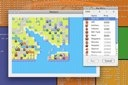
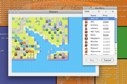
Removed the border around the screenshots

diff --git a/Screenshots.html b/Screenshots.html
@@ -6,7 +6,7 @@
   <head><meta http-equiv="Content-Type" content="text/html; charset=UTF-8" />
     
     <meta name="Generator" content="iWeb 2.0.4" />
-    <meta name="iWeb-Build" content="local-build-20090628" />
+    <meta name="iWeb-Build" content="local-build-20090629" />
     <meta name="viewport" content="width=700" />
     <title>Screenshots</title>
     <link rel="stylesheet" type="text/css" media="screen,print" href="Screenshots_files/Screenshots.css" />
@@ -96,8 +96,8 @@ new NavBar('widget0', 'Scripts/Widgets/Navbar', 'Scripts/Widgets/SharedResources
           
 
 
-          <div style="height: 0px; left: 0px; position: absolute; top: 90px; width: 700px; z-index: 1; " id="id2"></div>
-          <div class="com-apple-iweb-widget-headercontrols" id="widget1" style="height: 27px; left: 0px; position: absolute; top: 90px; width: 700px; z-index: 1; ">
+          <div style="height: 0px; left: 27px; position: absolute; top: 90px; width: 646px; z-index: 1; " id="id2"></div>
+          <div class="com-apple-iweb-widget-headercontrols" id="widget1" style="height: 27px; left: 27px; position: absolute; top: 90px; width: 646px; z-index: 1; ">
             
             <div class="middle">
 
@@ -229,7 +229,7 @@ new NavBar('widget0', 'Scripts/Widgets/Navbar', 'Scripts/Widgets/SharedResources
           <script type="text/javascript"><!--//--><![CDATA[//><!--
 new HeaderControls('widget1', 'Scripts/Widgets/HeaderControls', 'Scripts/Widgets/SharedResources', '.', {"feedURL": "http:\/\/the-kenny.ath.cx\/%7EMoritz\/netwars\/Netwars\/Screenshots_files\/rss.xml", "showAddPhoto": false, "showSlideshow": true, "entriesPerPage": 24, "mediaIndex": false, "gridID": "id2", "canvas controls": {"canvas_download": "Media\/canvas_download_03.png", "canvas_transport-left-D": "Media\/canvas_transport-left-D_03.png", "canvas_thumbs_off-S": "Media\/canvas_thumbs_off-S_03.png", "canvas_transport-right-D": "Media\/canvas_transport-right-D_03.png", "canvas_play": "Media\/canvas_play_03.png", "canvas_transport-left-N": "Media\/canvas_transport-left-N_03.png", "canvas_thumbs_off-N": "Media\/canvas_thumbs_off-N_03.png", "canvas_back": "Media\/canvas_back_03.png", "canvas_subscribe": "Media\/canvas_subscribe_03.png", "canvas_thumbs_on-S": "Media\/canvas_thumbs_on-S_03.png", "canvas_add": "Media\/canvas_add_03.png", "canvas_arrow-right": "Media\/canvas_arrow-right_03.png", "canvas_arrow-left-D": "Media\/canvas_arrow-left-D_03.png", "canvas_arrow-left": "Media\/canvas_arrow-left_03.png", "canvas_transport-right-N": "Media\/canvas_transport-right-N_03.png", "canvas_arrow-right-D": "Media\/canvas_arrow-right-D_03.png", "canvas_thumbs_on-N": "Media\/canvas_thumbs_on-N_03.png"}, "entryCount": "0", "showBackToIndex": false, "showSubscribe": true});
 //--><!]]></script>
-          <div class="com-apple-iweb-widget-detailview" id="widget2" style="height: 439px; left: 0px; position: absolute; top: 90px; width: 700px; z-index: 1; ">
+          <div class="com-apple-iweb-widget-detailview" id="widget2" style="height: 418px; left: 27px; position: absolute; top: 90px; width: 646px; z-index: 1; ">
             <div id="widget2-thumbnails_back" class="thumbnail_arrows thumbnails_back">
 
     <img class="canvas transport-left-D" alt="back" src="" />
@@ -401,7 +401,7 @@ new HeaderControls('widget1', 'Scripts/Widgets/HeaderControls', 'Scripts/Widgets
           <script type="text/javascript"><!--//--><![CDATA[//><!--
 new DetailView('widget2', 'Scripts/Widgets/DetailView', 'Scripts/Widgets/SharedResources', '.', {"canvas controls": {"canvas_download": "Media\/canvas_download_03.png", "canvas_transport-left-D": "Media\/canvas_transport-left-D_03.png", "canvas_thumbs_off-S": "Media\/canvas_thumbs_off-S_03.png", "canvas_transport-right-D": "Media\/canvas_transport-right-D_03.png", "canvas_play": "Media\/canvas_play_03.png", "canvas_transport-left-N": "Media\/canvas_transport-left-N_03.png", "canvas_thumbs_off-N": "Media\/canvas_thumbs_off-N_03.png", "canvas_back": "Media\/canvas_back_03.png", "canvas_subscribe": "Media\/canvas_subscribe_03.png", "canvas_thumbs_on-S": "Media\/canvas_thumbs_on-S_03.png", "canvas_add": "Media\/canvas_add_03.png", "canvas_arrow-right": "Media\/canvas_arrow-right_03.png", "canvas_arrow-left-D": "Media\/canvas_arrow-left-D_03.png", "canvas_arrow-left": "Media\/canvas_arrow-left_03.png", "canvas_transport-right-N": "Media\/canvas_transport-right-N_03.png", "canvas_arrow-right-D": "Media\/canvas_arrow-right-D_03.png", "canvas_thumbs_on-N": "Media\/canvas_thumbs_on-N_03.png"}, "showSlideshow": true, "showThumbnails": true, "photoSize": 0, "gridID": "id2", "color": "transparent"});
 //--><!]]></script>
-          <div class="com-apple-iweb-widget-footercontrols" id="widget3" style="height: 27px; left: 0px; position: absolute; top: 90px; width: 700px; z-index: 1; ">
+          <div class="com-apple-iweb-widget-footercontrols" id="widget3" style="height: 27px; left: 27px; position: absolute; top: 90px; width: 646px; z-index: 1; ">
             <!-- Footer Controls -->
             <div class="footer_middle">
 

diff --git a/Screenshots_files/Screenshots.js b/Screenshots_files/Screenshots.js
@@ -1,4 +1,4 @@
-// Created by iWeb 2.0.4 local-build-20090628
+// Created by iWeb 2.0.4 local-build-20090629
 
 function createMediaStream_id2()
 {return IWCreatePhotocast("http://the-kenny.ath.cx/%7EMoritz/netwars/Netwars/Screenshots_files/rss.xml",true,true);}
@@ -9,7 +9,7 @@ function layoutMediaGrid_id2(range)
 {createMediaStream_id2().load('http://the-kenny.ath.cx/%7EMoritz/netwars/Netwars',function(imageStream)
 {if(range==null)
 {range=new IWRange(0,imageStream.length);}
-IWLayoutPhotoGrid('id2',new IWPhotoGridLayout(4,new IWSize(140,140),new IWSize(140,32),new IWSize(172,187),27,27,0,new IWSize(12,12)),new IWPhotoFrame([IWCreateImage('Screenshots_files/Formal_inset_01.png'),IWCreateImage('Screenshots_files/Formal_inset_02.png'),IWCreateImage('Screenshots_files/Formal_inset_03.png'),IWCreateImage('Screenshots_files/Formal_inset_06.png'),IWCreateImage('Screenshots_files/Formal_inset_09.png'),IWCreateImage('Screenshots_files/Formal_inset_08.png'),IWCreateImage('Screenshots_files/Formal_inset_07.png'),IWCreateImage('Screenshots_files/Formal_inset_04.png')],null,0,0.450000,1.000000,1.000000,1.000000,1.000000,14.000000,14.000000,14.000000,14.000000,191.000000,262.000000,191.000000,262.000000,null,null,null,0.100000),imageStream,range,null,null,1.000000,{backgroundColor:'#000000',reflectionHeight:100,reflectionOffset:2,captionHeight:100,fullScreen:0,transitionIndex:2},'Media/slideshow.html','widget1','widget2','widget3')});}
+IWLayoutPhotoGrid('id2',new IWPhotoGridLayout(4,new IWSize(129,129),new IWSize(129,32),new IWSize(159,176),27,27,0,new IWSize(2,2)),new IWEmptyStroke(),imageStream,range,null,null,1.000000,{backgroundColor:'#000000',reflectionHeight:100,reflectionOffset:2,captionHeight:100,fullScreen:0,transitionIndex:2},'Media/slideshow.html','widget1','widget2','widget3')});}
 function relayoutMediaGrid_id2(notification)
 {var userInfo=notification.userInfo();var range=userInfo['range'];layoutMediaGrid_id2(range);}
 function onStubPage()

diff --git a/Netwars.html b/Netwars.html
@@ -6,7 +6,7 @@
   <head><meta http-equiv="Content-Type" content="text/html; charset=UTF-8" />
     
     <meta name="Generator" content="iWeb 2.0.4" />
-    <meta name="iWeb-Build" content="local-build-20090628" />
+    <meta name="iWeb-Build" content="local-build-20090629" />
     <meta name="viewport" content="width=700" />
     <title>Netwars</title>
     <link rel="stylesheet" type="text/css" media="screen,print" href="Netwars_files/Netwars.css" />

diff --git a/Screenshots_files/Screenshots.css b/Screenshots_files/Screenshots.css
@@ -2,7 +2,7 @@
     background: transparent;
     opacity: 0.35;
 }
-.style_External_140_32 {
+.style_External_129_32 {
     position: relative;
 }
 .style_External_630_66 {
@@ -147,7 +147,7 @@
 .image_cluster_layout_style_default {
     padding: 0px;
 }
-.image_cluster_layout_style_default_External_140_32 {
+.image_cluster_layout_style_default_External_129_32 {
     position: relative;
 }
 a {

diff --git a/Netwars_files/Netwars.js b/Netwars_files/Netwars.js
@@ -1,4 +1,4 @@
-// Created by iWeb 2.0.4 local-build-20090628
+// Created by iWeb 2.0.4 local-build-20090629
 
 setTransparentGifURL('Media/transparent.gif');function applyEffects()
 {var registry=IWCreateEffectRegistry();registry.registerEffects({reflection_0:new IWReflection({opacity:0.60,offset:1.00}),stroke_0:new IWEmptyStroke()});registry.applyEffects();}
